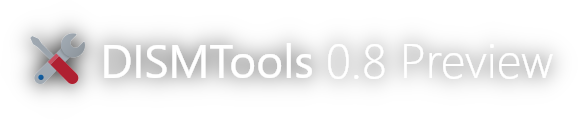
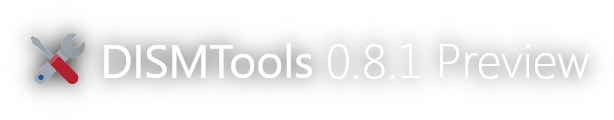
Prepare for next version

diff --git a/README.md b/README.md
@@ -296,7 +296,7 @@ If you want to contribute to this project, you can do so in many ways:
 
 ## Testing the latest
 
-We continue the development of the next version in the Preview branch. To go to it, select "dt_pre_0.8" from the branch list. Commits are done every day, and new builds are released every 2 weeks.
+We continue the development of the next version in the Preview branch. To go to it, select "dt_pre_0.8.1" from the branch list. Commits are done every day, and new builds are released every 2 weeks.
 
 <!-- **NOTE:** this branch contains release candidate builds of DISMTools 0.8, and will be deleted once this version gets published as a stable release -->
 
